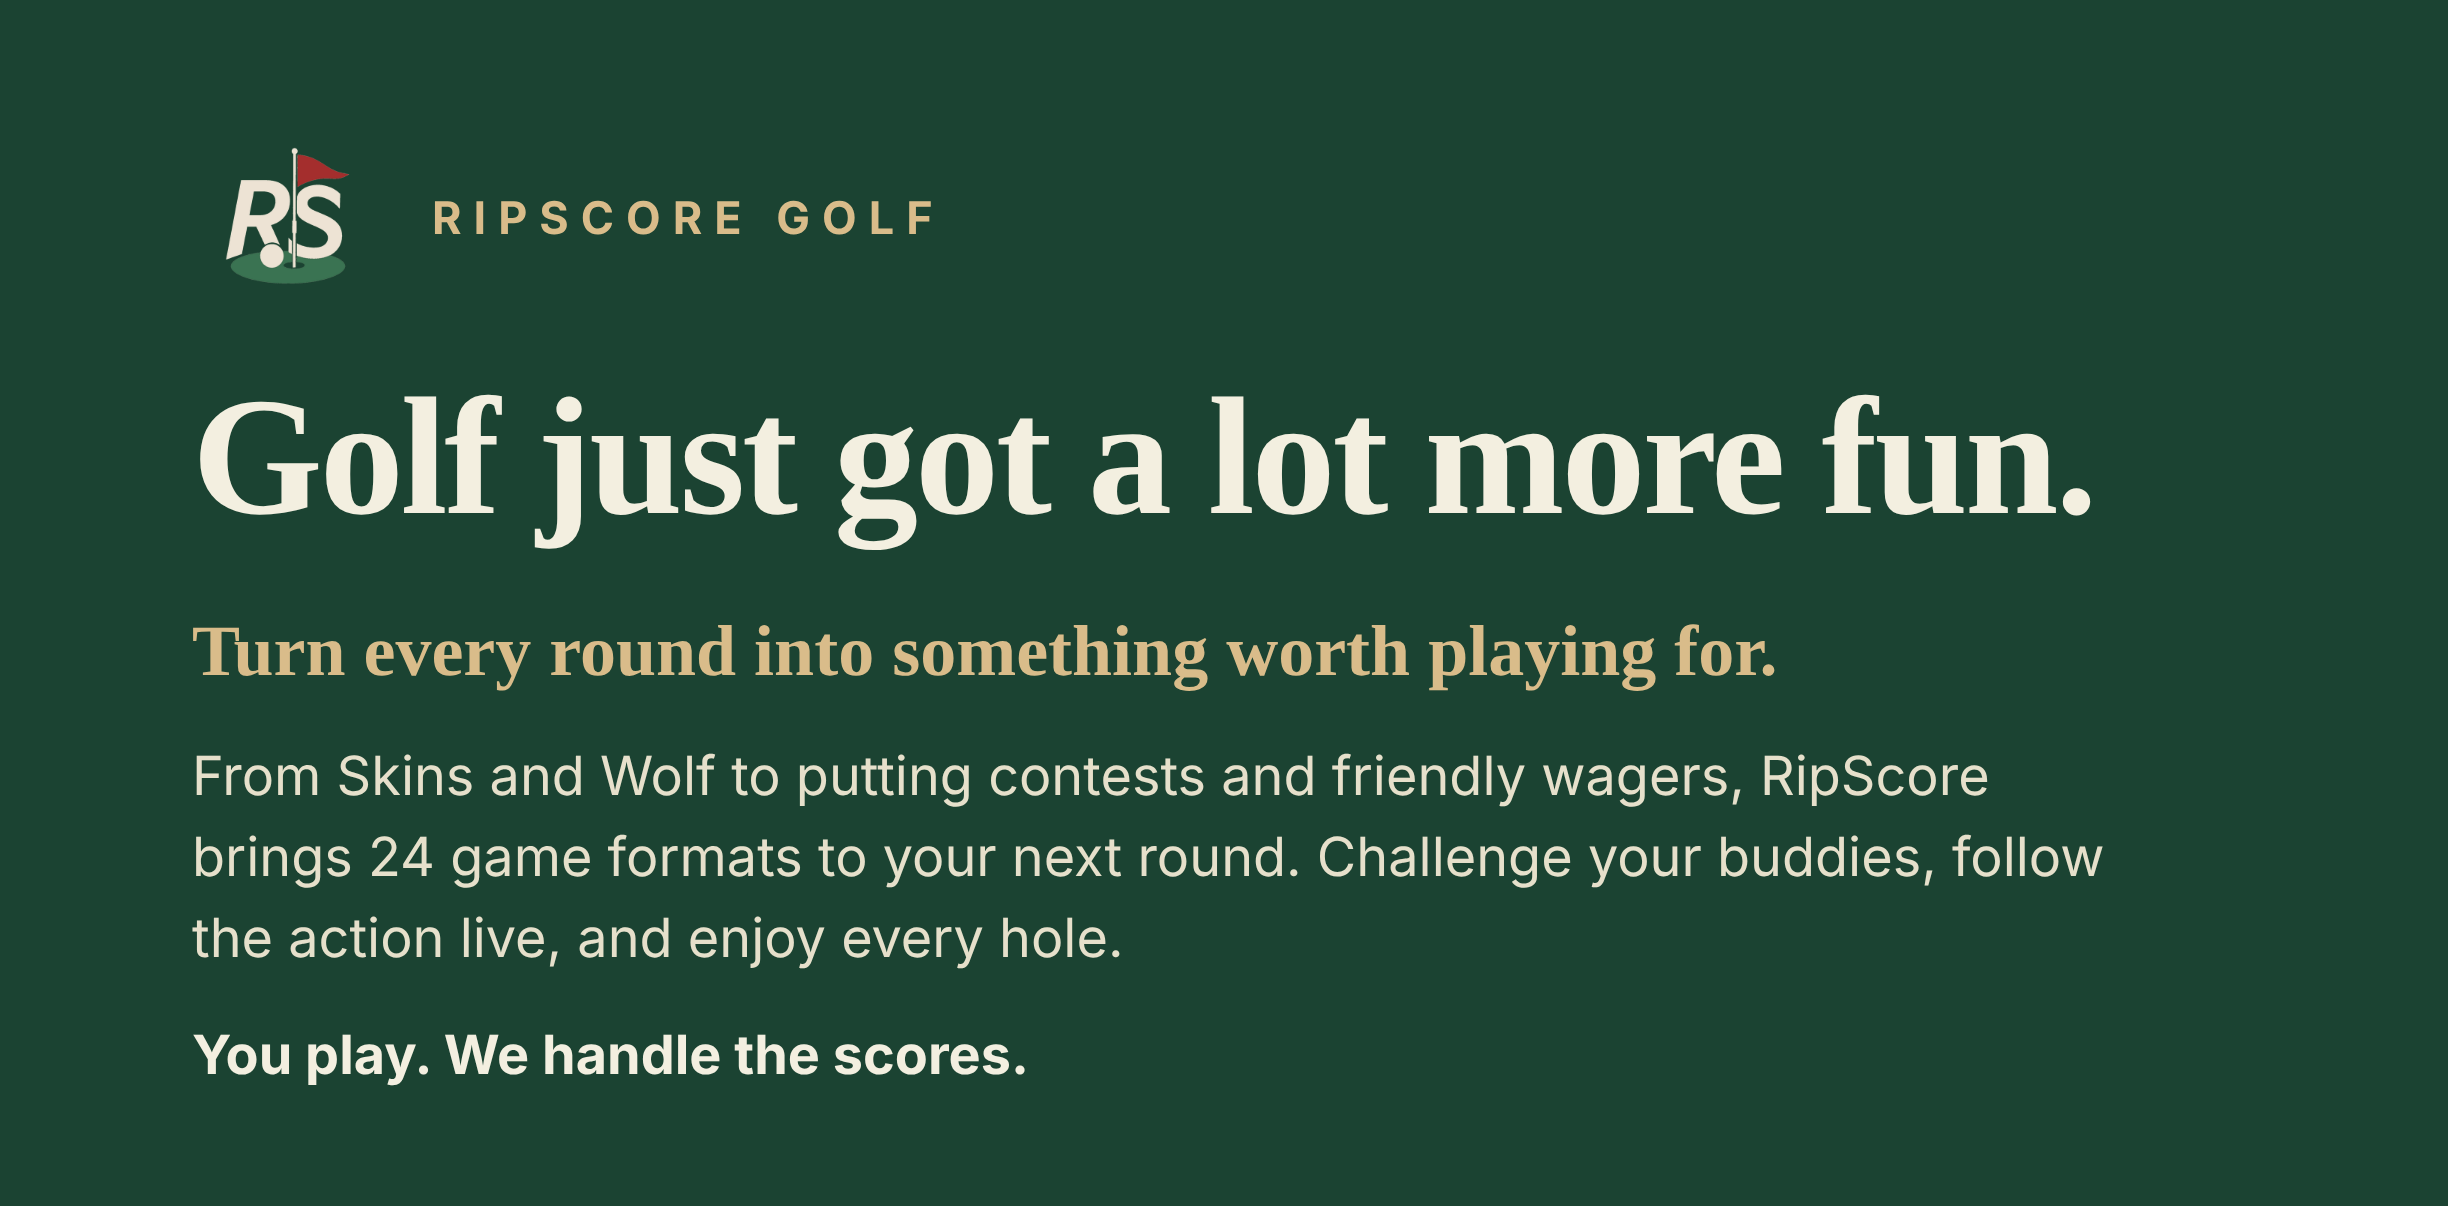
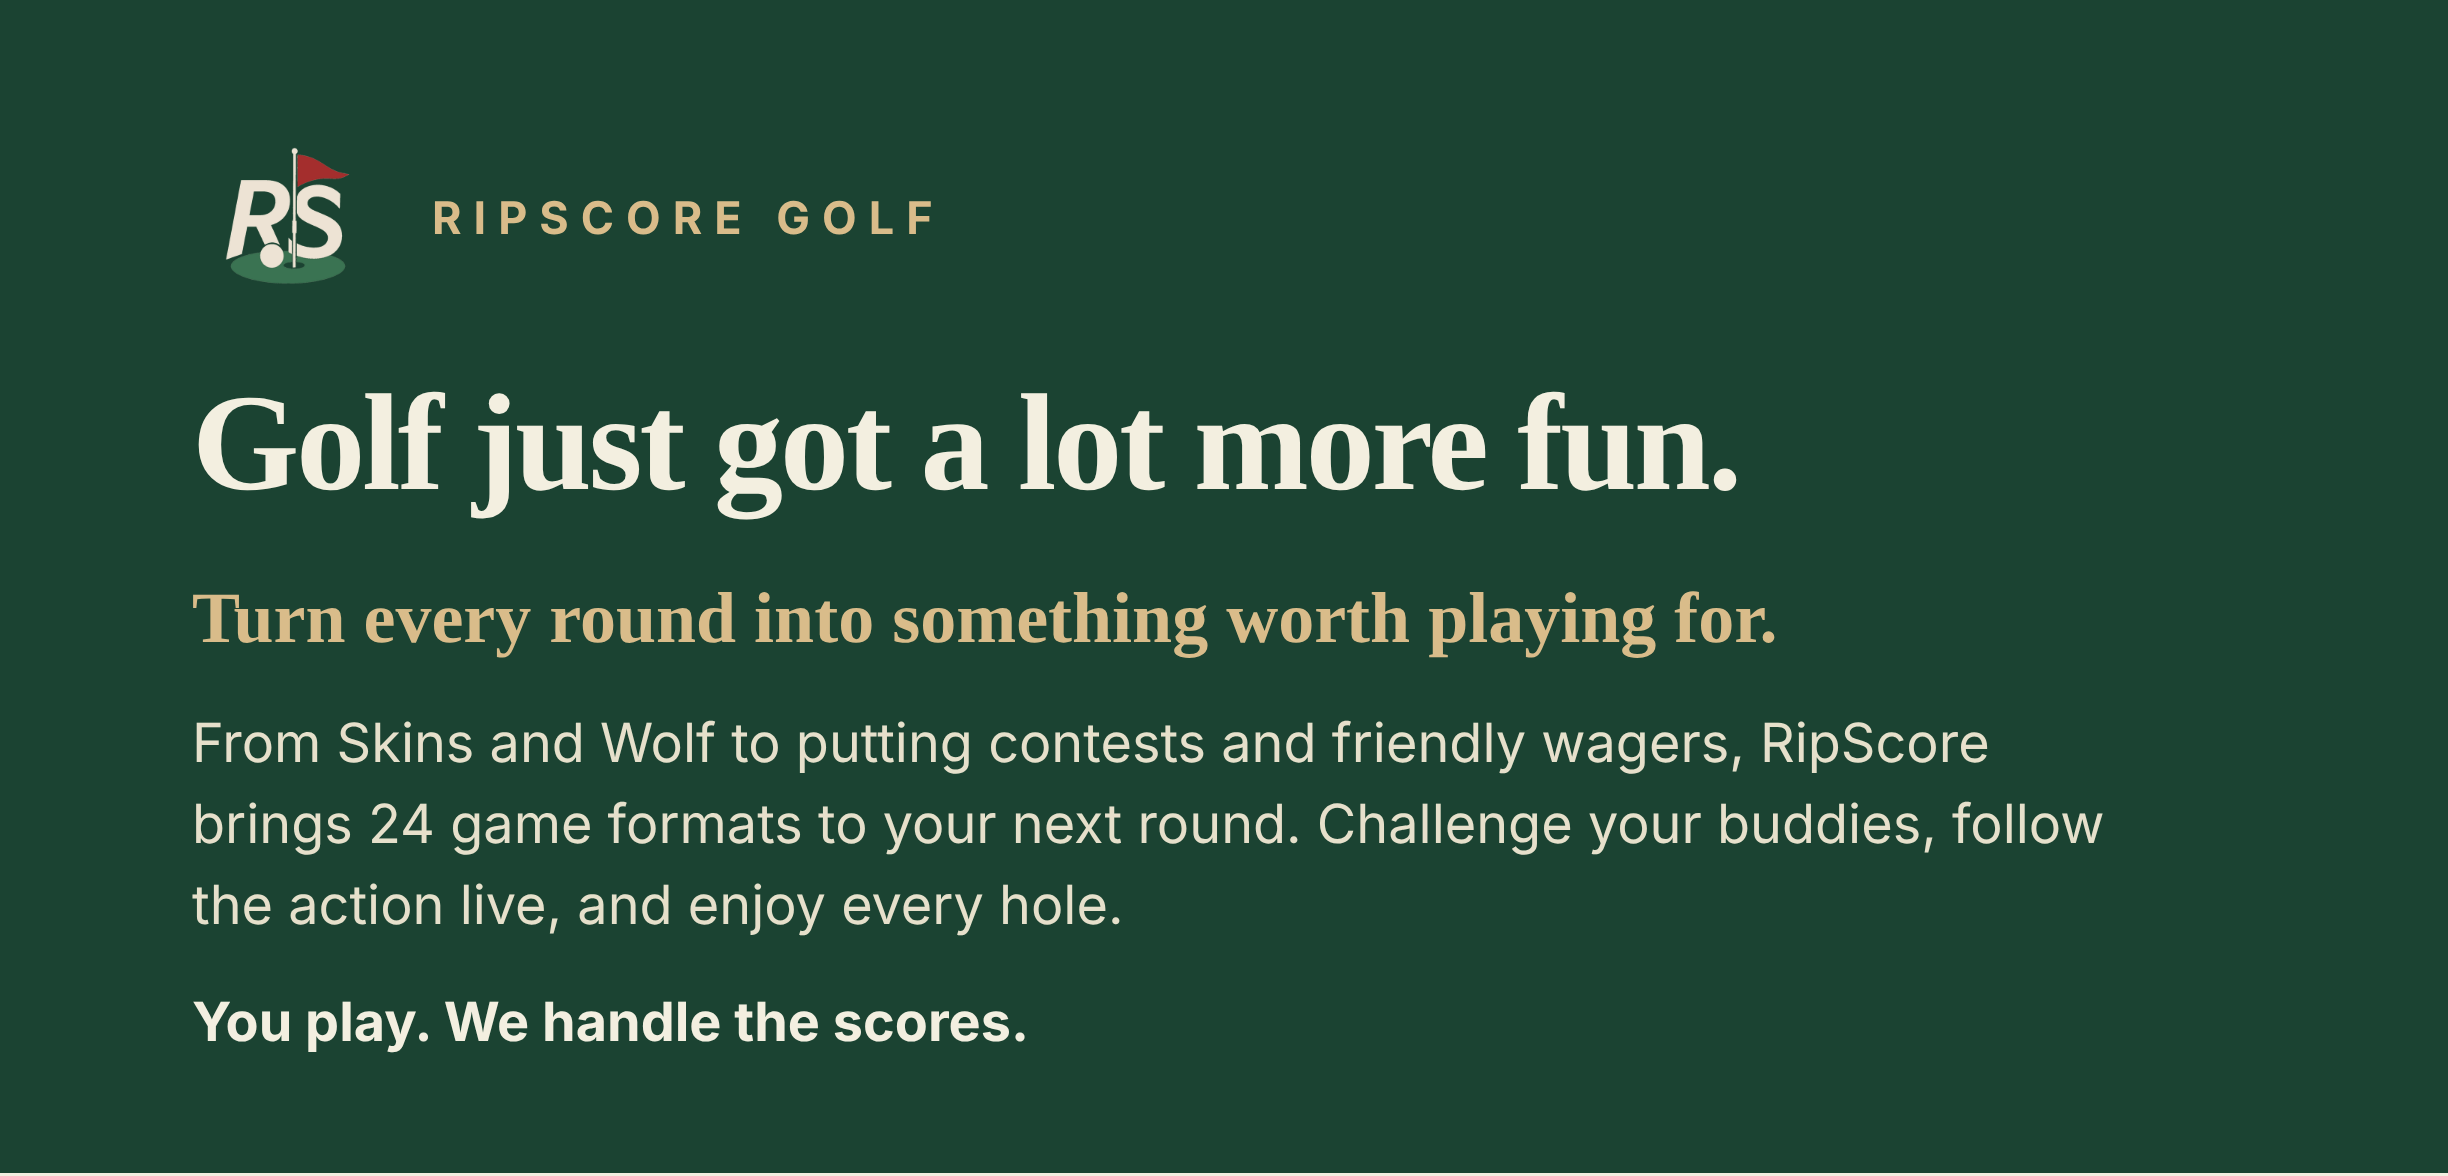
Add files via upload

diff --git a/public/flyer.html b/public/flyer.html
@@ -23,7 +23,7 @@ body{margin:0;background:#E9E5D3;font-family:'Helvetica Neue',Arial,sans-serif}
 <img src="flyer-logo.png" alt="RipScore Golf logo" style="width: 64px; height: 64px; border-radius: 14px">
 <div style="font-size: 15px; letter-spacing: 4px; text-transform: uppercase; color: #D9BC8A; font-weight: 700">RipScore Golf</div>
 </div>
-<h1 style="margin: 0; font-family: Georgia, 'Times New Roman', serif; font-size: 56px; white-space: nowrap; line-height: 1.05; font-weight: 700; letter-spacing: -1px">Golf just got a lot more fun.</h1>
+<h1 style="margin: 0; font-family: Georgia, 'Times New Roman', serif; font-size: 46px; white-space: nowrap; line-height: 1.05; font-weight: 700; letter-spacing: -1px">Golf just got a lot more fun.</h1>
 <div style="display: flex; flex-direction: column; gap: 12px; max-width: 640px">
 <p style="margin: 0; font-family: Georgia, 'Times New Roman', serif; font-size: 24px; line-height: 1.3; font-weight: 700; color: #D9BC8A">Turn every round into something worth playing for.</p>
 <p style="margin: 0; font-size: 18px; line-height: 1.5; color: #E6E0CB">From Skins and Wolf to putting contests and friendly wagers, RipScore brings 24 game formats to your next round. Challenge your buddies, follow the action live, and enjoy every hole.</p>
@@ -77,5 +77,10 @@ body{margin:0;background:#E9E5D3;font-family:'Helvetica Neue',Arial,sans-serif}
 
 </div>
 <p class="dl"><a href="RipScore-Flyer.pdf">Download the printable PDF</a></p>
+<script>
+(function(){var h=document.querySelector('h1');if(!h)return;var base=parseFloat(getComputedStyle(h).fontSize);
+function fit(){var s=base;h.style.fontSize=s+'px';while(h.scrollWidth>h.clientWidth&&s>24){s-=1;h.style.fontSize=s+'px';}}
+fit();if(document.fonts&&document.fonts.ready){document.fonts.ready.then(fit);}window.addEventListener('load',fit);})();
+</script>
 </body>
 </html>
